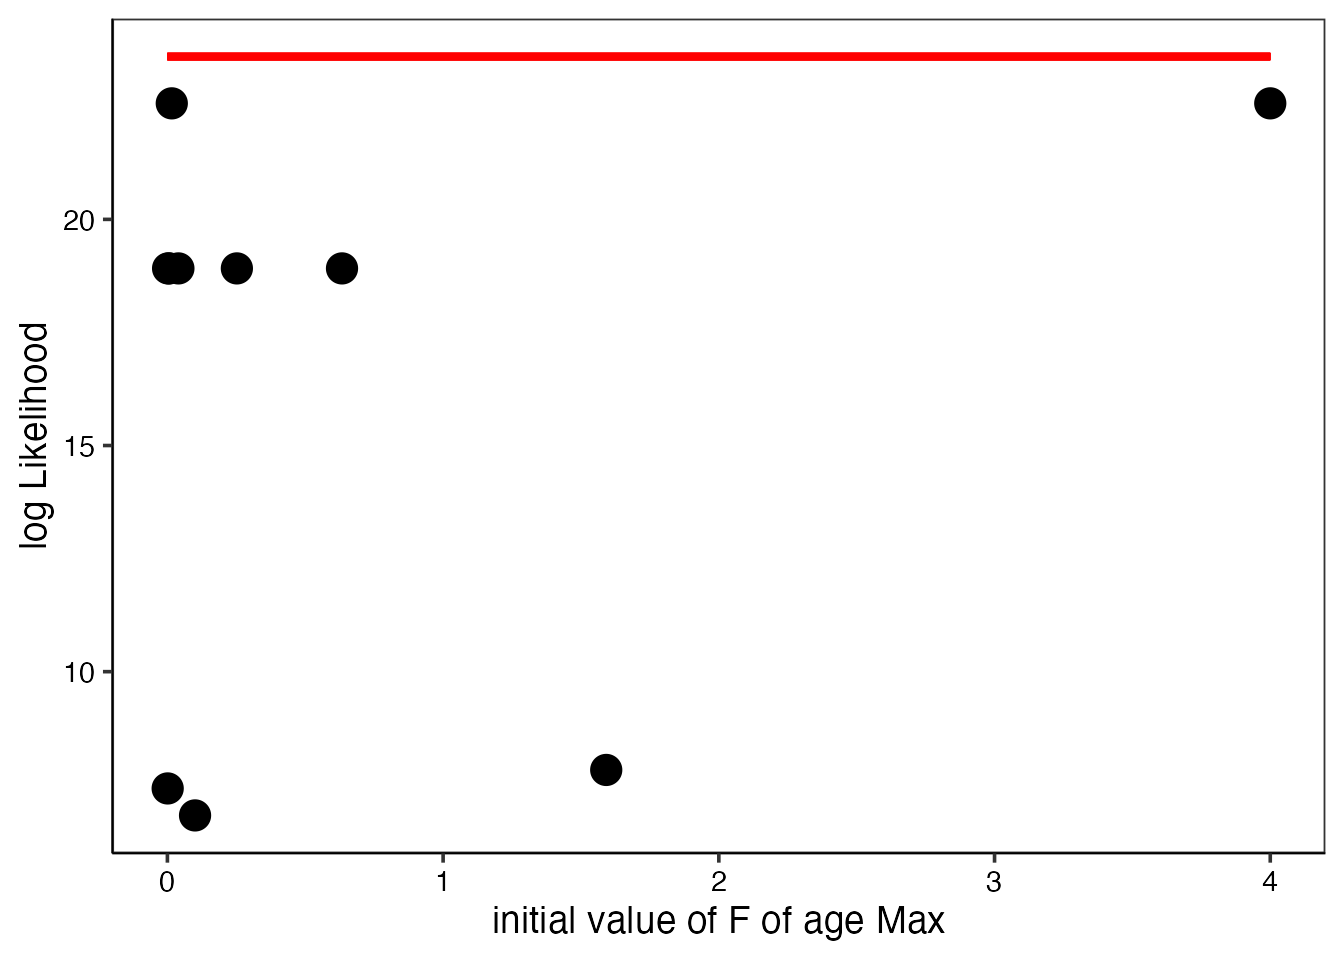
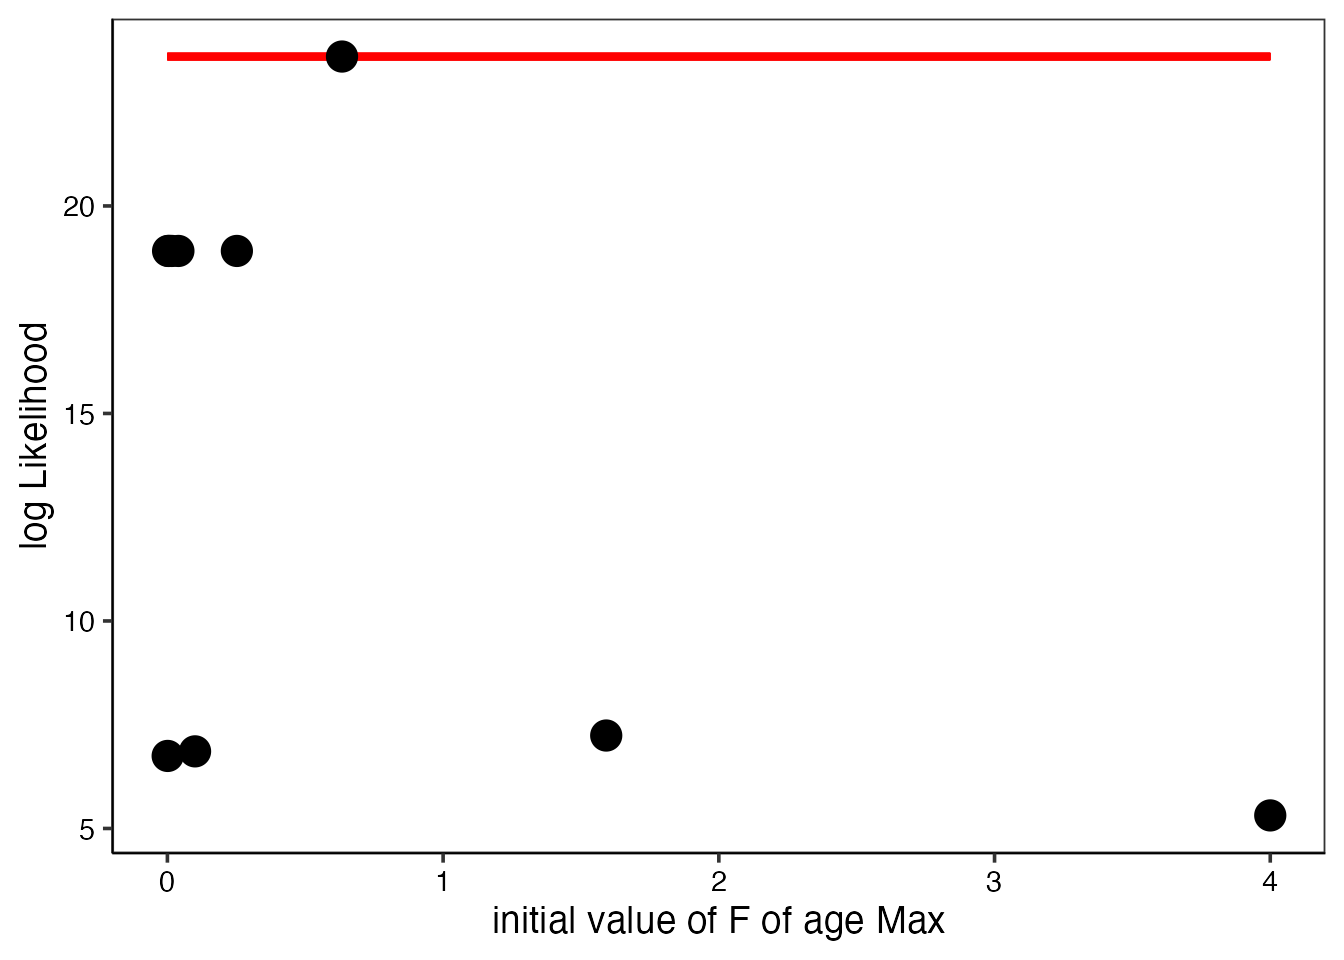
Built site for frasyr: 2.1.1.0@fb7fd7e

diff --git a/articles/Diagnostics-for-VPA.html b/articles/Diagnostics-for-VPA.html
@@ -430,7 +430,7 @@
 <p>を指定します。コマンドは以下の通りです。</p>
 <div class="sourceCode" id="cb25"><pre class="downlit sourceCode r">
 <code class="sourceCode R"><span class="va">res_vpa_jitter</span> <span class="op">&lt;-</span> <span class="fu"><a href="../reference/do_estcheck_vpa.html">do_estcheck_vpa</a></span><span class="op">(</span><span class="va">res_vpa_estb</span>, n_ite<span class="op">=</span><span class="fl">10</span><span class="op">)</span></code></pre></div>
-<pre><code>Maximum likelihood in jitter analysis is:  22.5652 
+<pre><code>Maximum likelihood in jitter analysis is:  23.60018 
 Likelihood with estimated parameters is:  23.60018 </code></pre>
 <p>最初に引数で与えたVPA結果について、</p>
 <ul>
@@ -564,8 +564,8 @@ Likelihood with estimated parameters is:  23.60018 </code></pre>
 <code class="sourceCode R"><span class="va">res_tmp</span> <span class="op">&lt;-</span> <span class="fu"><a href="https://rdrr.io/r/base/numeric.html">numeric</a></span><span class="op">(</span><span class="op">)</span>
 <span class="kw">for</span><span class="op">(</span><span class="va">i</span> <span class="kw">in</span> <span class="fl">1</span><span class="op">:</span><span class="fl">10</span><span class="op">)</span> <span class="va">res_tmp</span><span class="op">[</span><span class="va">i</span><span class="op">]</span> <span class="op">&lt;-</span> <span class="fu"><a href="https://rdrr.io/r/base/numeric.html">as.numeric</a></span><span class="op">(</span><span class="va">res_vpa_bootstrap</span><span class="op">$</span><span class="va">res_boot</span><span class="op">[[</span><span class="va">i</span><span class="op">]</span><span class="op">]</span><span class="op">$</span><span class="va">Fc.at.age</span><span class="op">[</span><span class="fl">4</span><span class="op">]</span><span class="op">)</span>
 <span class="fu"><a href="https://rdrr.io/r/stats/quantile.html">quantile</a></span><span class="op">(</span><span class="va">res_tmp</span>, probs <span class="op">=</span> <span class="fu"><a href="https://rdrr.io/r/base/c.html">c</a></span><span class="op">(</span><span class="fl">0.025</span>,<span class="fl">0.5</span>,<span class="fl">0.975</span><span class="op">)</span><span class="op">)</span></code></pre></div>
-<pre><code>        2.5%          50%        97.5% 
-5.602850e-01 3.366685e+00 2.808892e+05 </code></pre>
+<pre><code>     2.5%       50%     97.5% 
+0.5290051 0.9273963 7.6550550 </code></pre>
 <p>この他、各パラメータの相関関係について、ブートストラップ標本を基にプロットが得られます。</p>
 <div class="sourceCode" id="cb41"><pre class="downlit sourceCode r">
 <code class="sourceCode R"><span class="va">res_vpa_bootstrap</span><span class="op">$</span><span class="va">plot_cor</span></code></pre></div>
